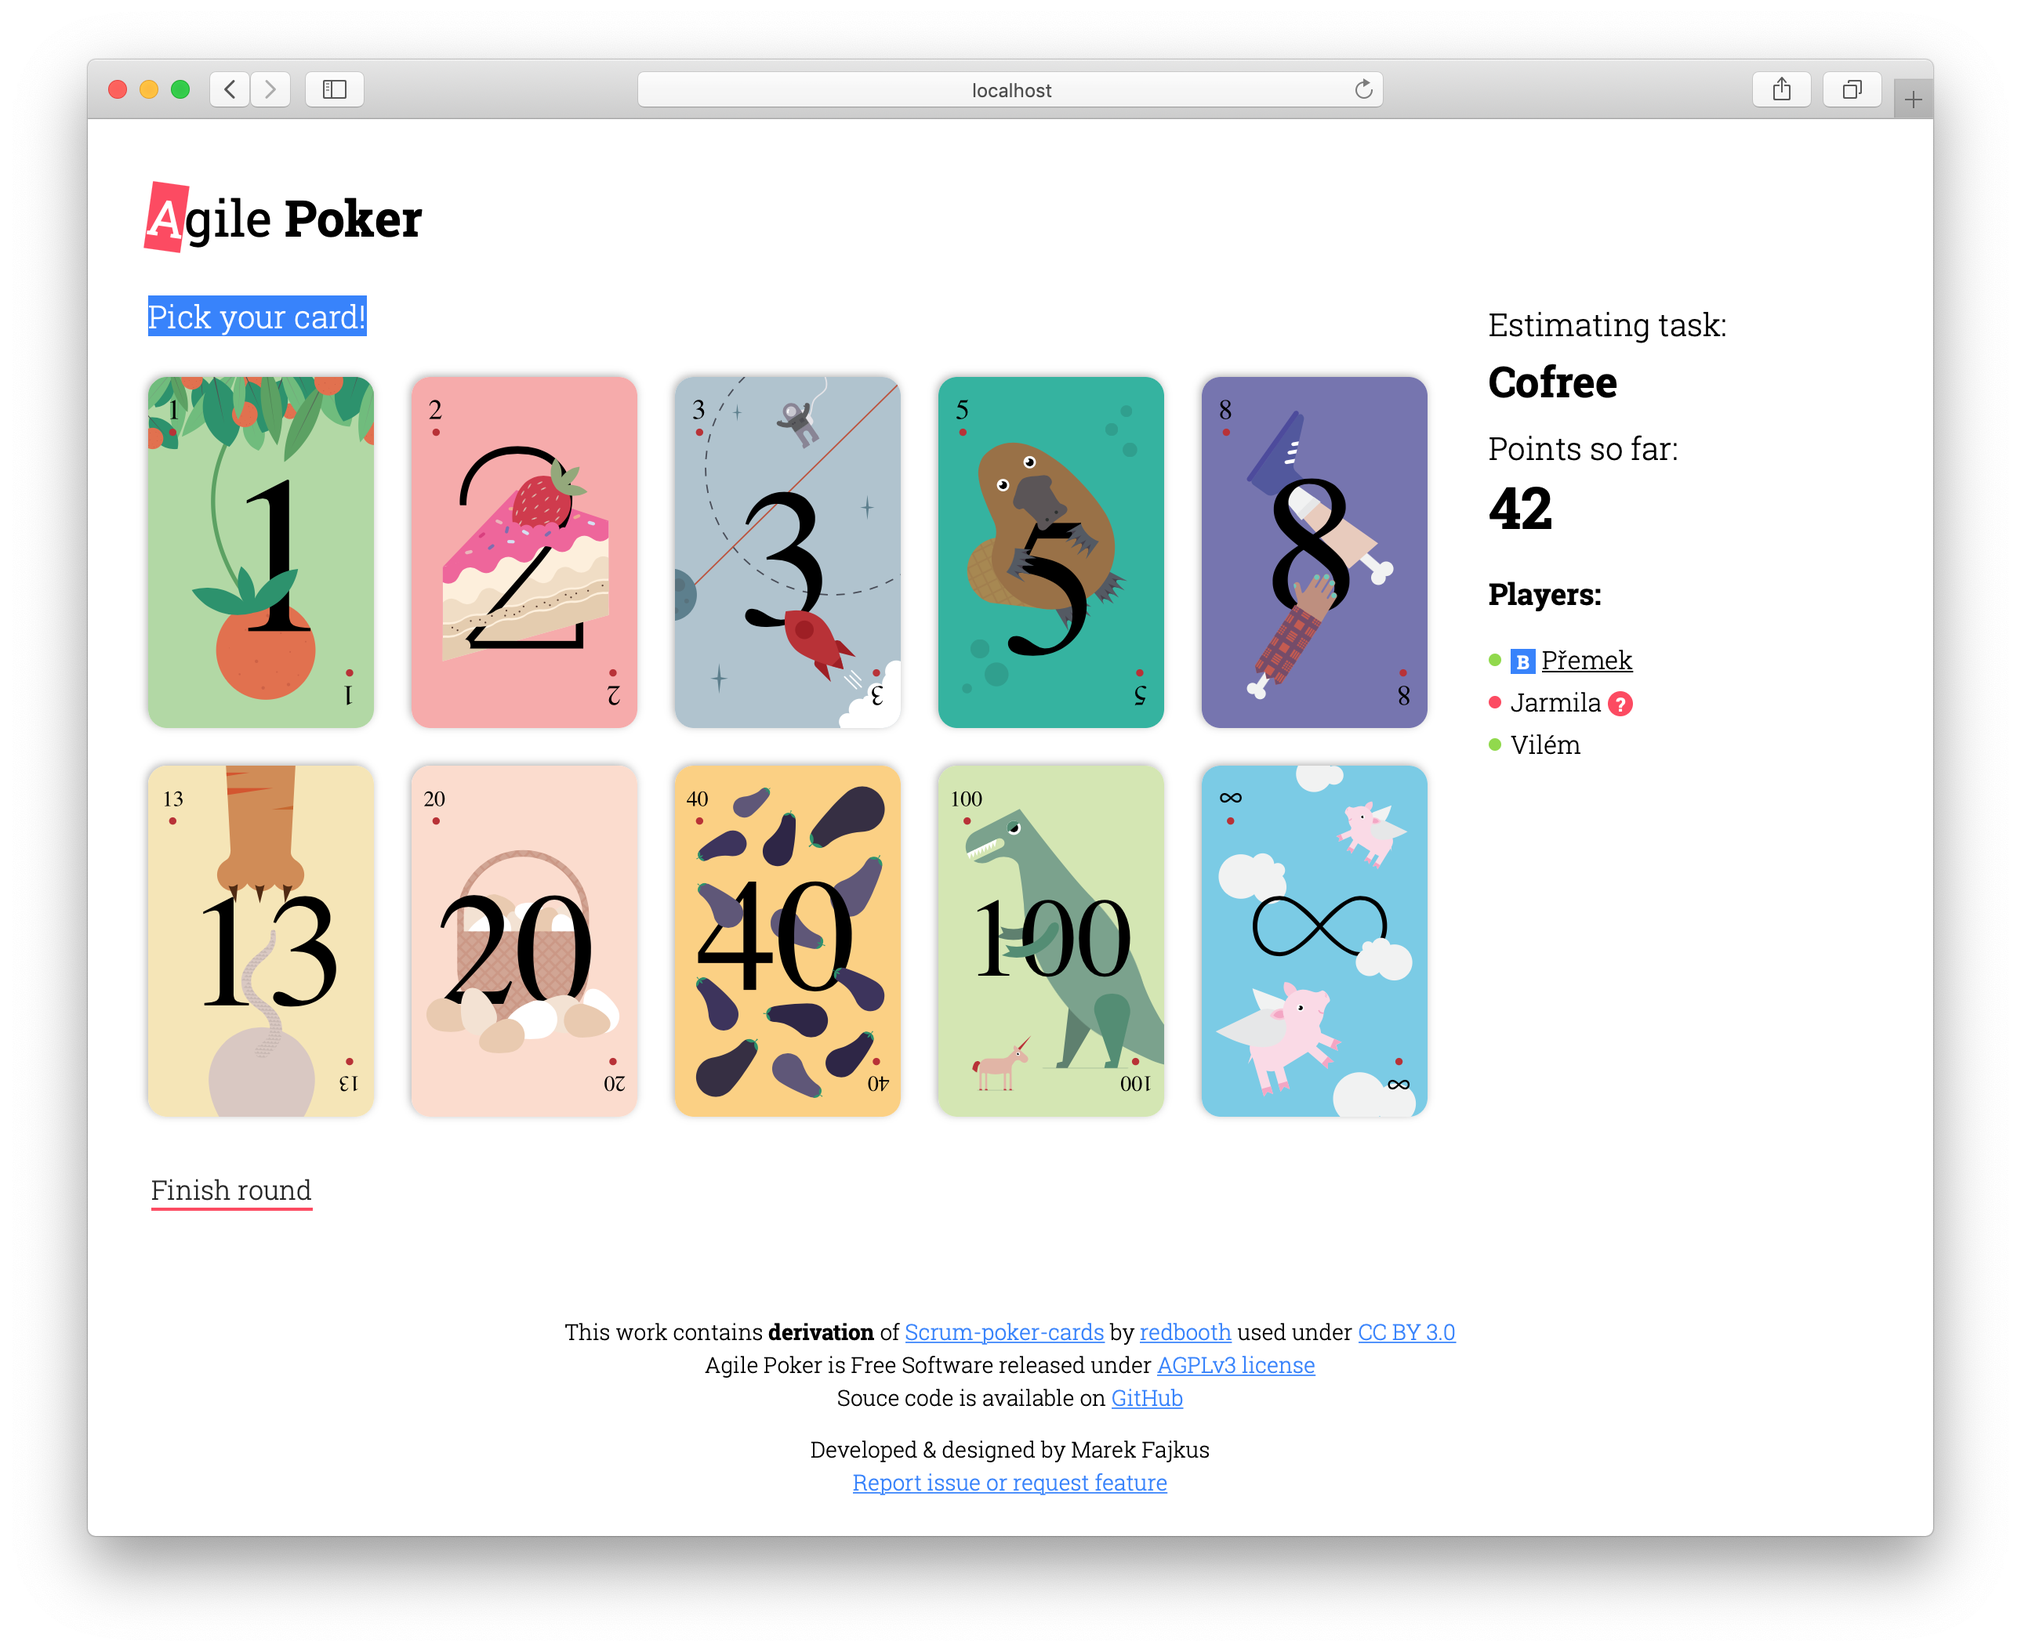
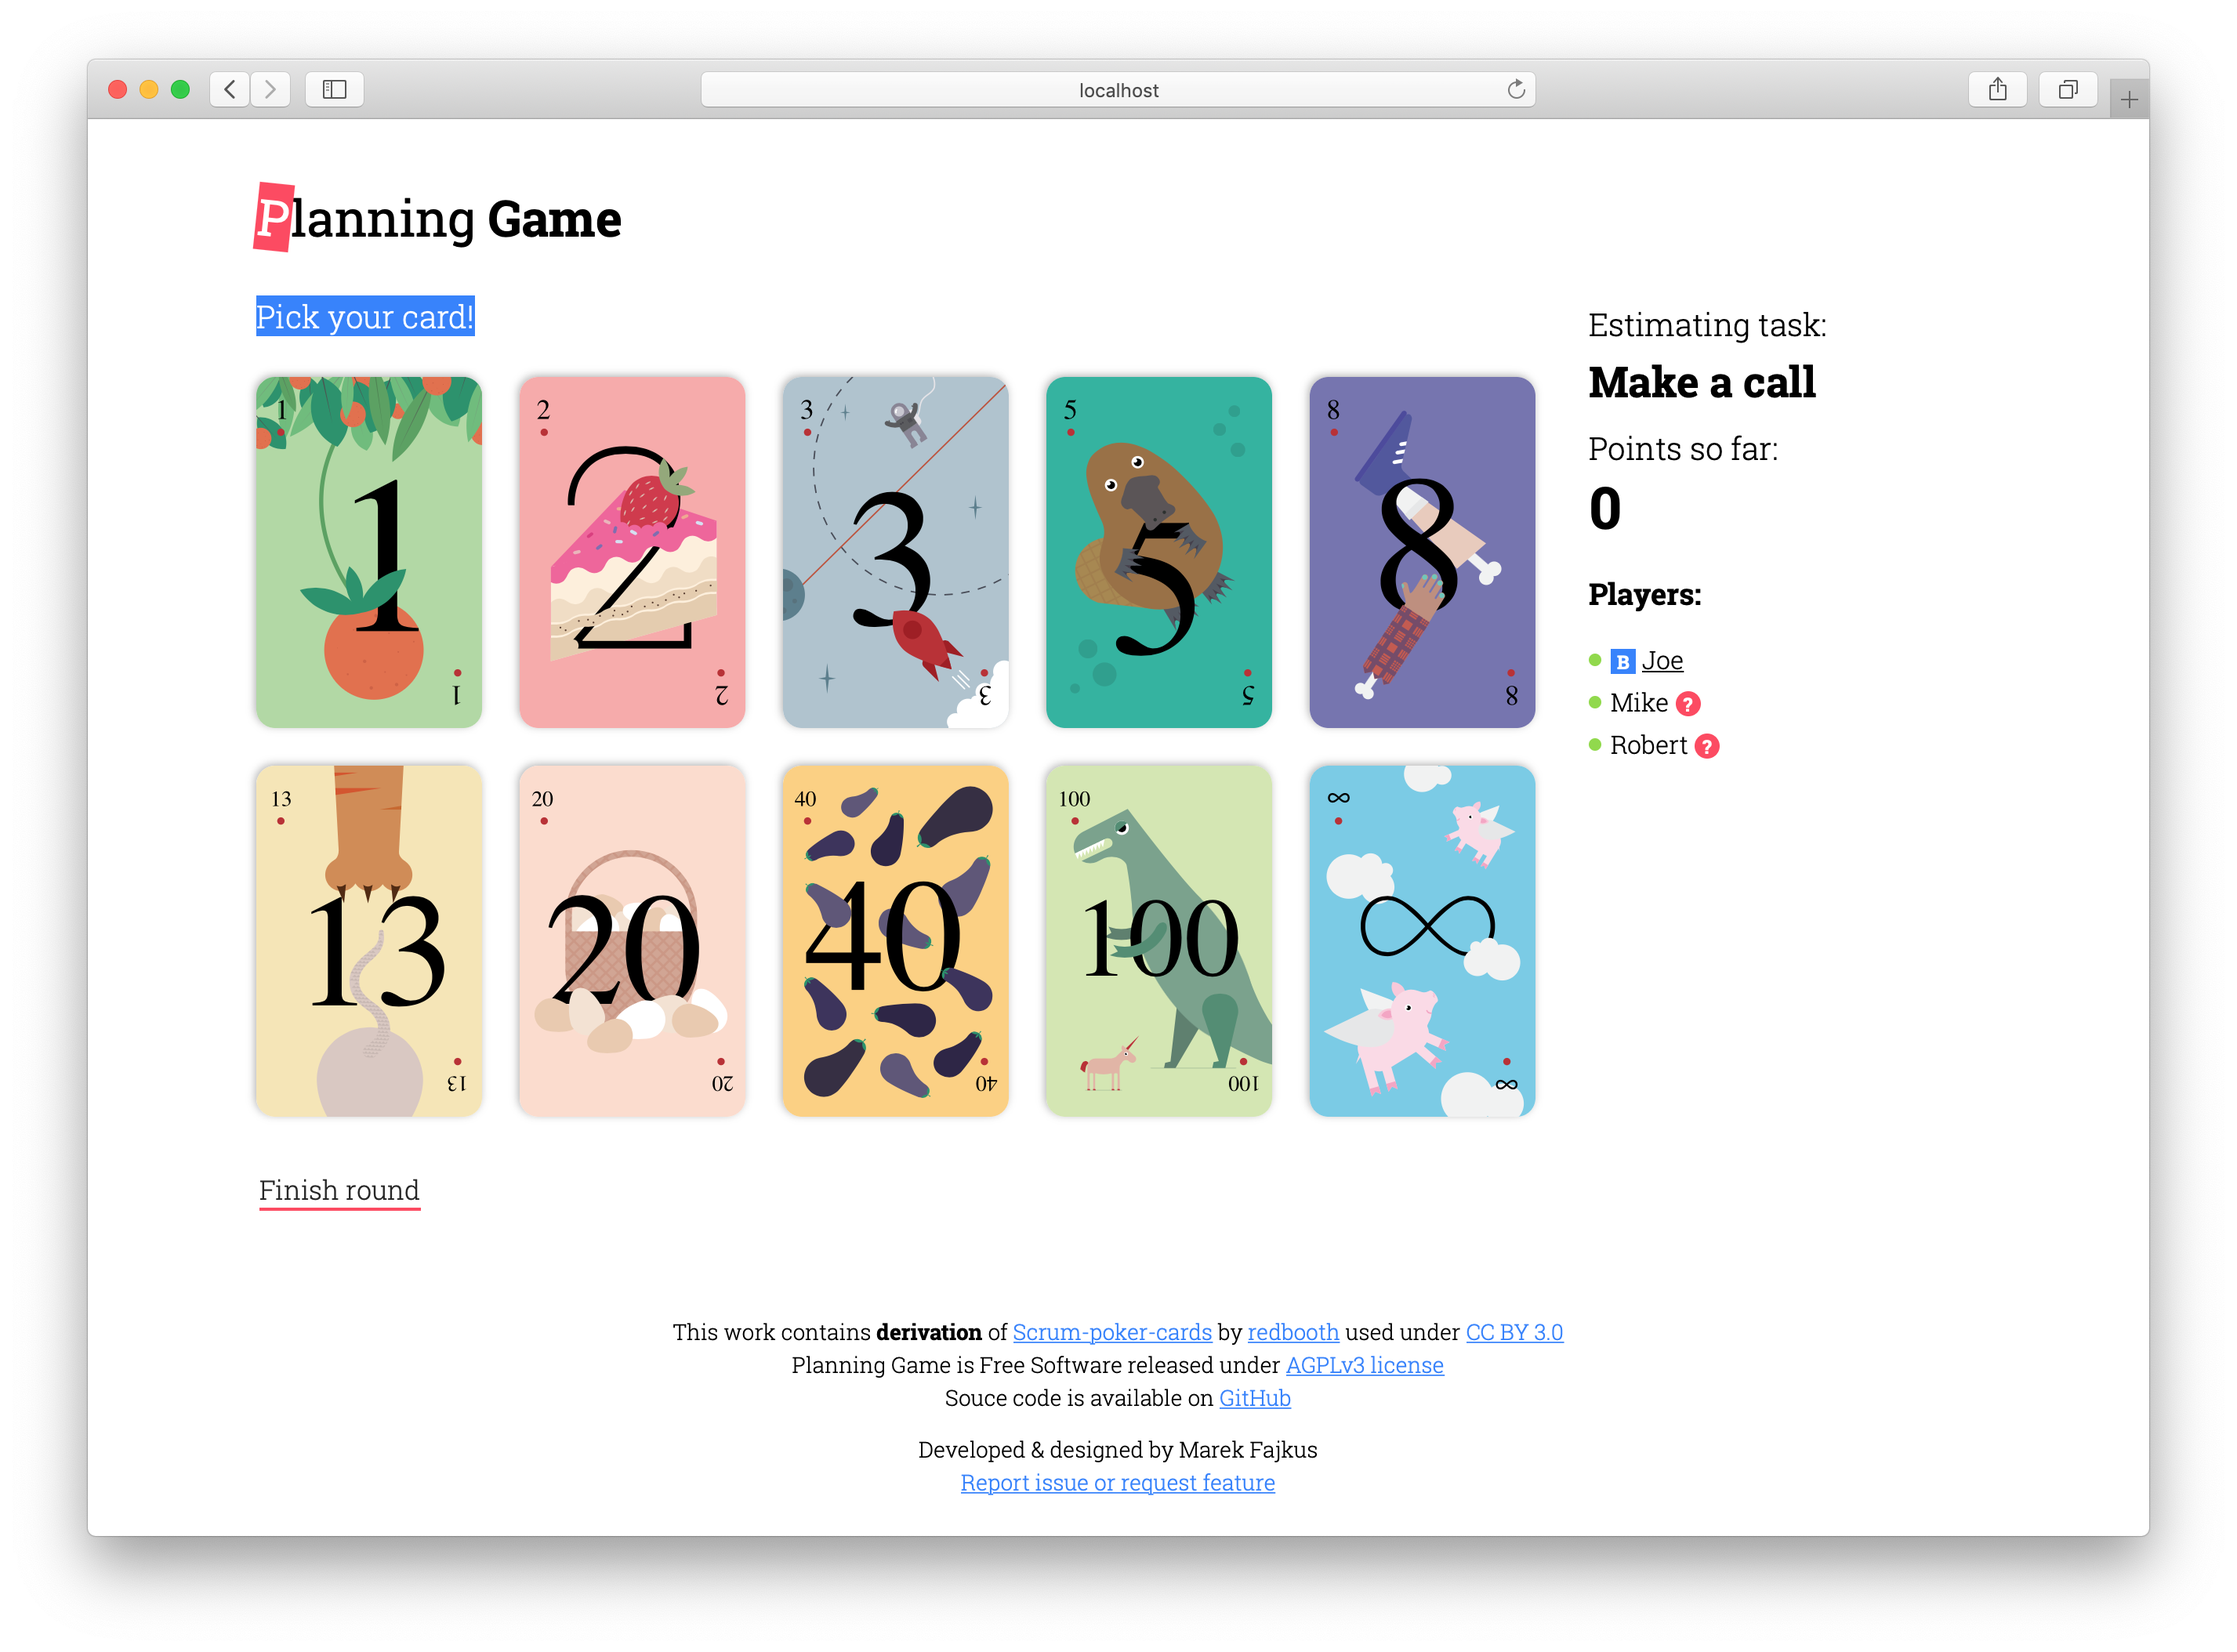
Chore/rename to planning game (#14)

diff --git a/README.md b/README.md
@@ -1,9 +1,9 @@
 <div align="center">
-    <h1>Agile Poker</h1>
+    <h1>Planning Game</h1>
     <p>Planning tool for remote teams.</p>
     <!-- Badges -->
-    <a href="https://travis-ci.org/turboMaCk/agile-poker">
-        <img src="https://travis-ci.org/turboMaCk/agile-poker.svg?branch=master" alt="build">
+    <a href="https://travis-ci.org/turboMaCk/planning-game">
+        <img src="https://travis-ci.org/turboMaCk/planning-game.svg?branch=master" alt="build">
     </a>
     <a href="https://www.gnu.org/licenses/agpl-3.0.en.html">
         <img src="https://img.shields.io/badge/license-AGPLv3-brightgreen.svg" alt="AGPLv3">
@@ -12,7 +12,7 @@
 
 ![screenshot](docs/screenshot.png)
 
-Simple voting poker implementation build with efficiency
+Simple voting poker implementation build with efficiency,
 flexibility and easy deployment in mind.
 Enabling remote teams to effectively identify complexities
 and specification weak points in collaborative way.
@@ -22,7 +22,7 @@ and specification weak points in collaborative way.
 ## Quick Start
 
 ```
-$ docker run -p 3000:3000 --rm -it turbomack/agile-poker
+$ docker run -p 3000:3000 --rm -it turbomack/planning-game
 ```
 
 ## Links
@@ -36,4 +36,4 @@ $ docker run -p 3000:3000 --rm -it turbomack/agile-poker
 This work contains **derivation** of [Scrum-poker-cards](https://github.com/redbooth/Scrum-poker-cards)
 by [redbooth](https://redbooth.com/) used under [CC BY 3.0](https://creativecommons.org/licenses/by/3.0/).
 
-Agile Poker is Free Software released under [AGPLv3](https://www.gnu.org/licenses/agpl-3.0.en.html).
+Planning Game is Free Software released under [AGPLv3](https://www.gnu.org/licenses/agpl-3.0.en.html).

diff --git a/docs/HOSTING.md b/docs/HOSTING.md
@@ -27,7 +27,7 @@ Here is a table of all variables with description.
 | `GC_EVERY_MIN`          | `30`          | Frequency of Garbage Collection for server state (in mins) |
 | `GC_TABLE_MIN_LIFE_MIN` | `120`         | Minimal life of table from creating (in mins)              |
 
-Implementation can be found in [AgilePoker.hs](https://github.com/turboMaCk/agile-poker/blob/master/server/AgilePoker.hs)
+Implementation can be found in [PlanningGame.hs](https://github.com/turboMaCk/planning-game/blob/master/server/PlanningGame.hs)
 
 ### Understanding Garbage Collection
 
@@ -46,11 +46,11 @@ which periodically cleans data in this shared data structure by following rules:
 
 ## Docker
 
-There is [official docker image](https://cloud.docker.com/u/turbomack/repository/docker/turbomack/agile-poker)
+There is [official docker image](https://cloud.docker.com/u/turbomack/repository/docker/turbomack/planning-game)
 publish on docker hub.
 
 ```
-$ docker pull turbomack/agile-poker
+$ docker pull turbomack/planning-game
 ```
 
 It should be very simple to plug this docker container
@@ -66,7 +66,7 @@ $ nix-build --attr client --out-link www
 $ nix-build --attr server
 $ export PATH=$(readlink -f result)/bin:$PATH
 $ cd www
-$ agile-poker
+$ planning-game
 ```
 
 Alternatively you can build docker image using nix dockerTools
@@ -96,7 +96,7 @@ $ cabal build # build server
 TL;DR One can try to pass those flags to squeeze some extra runtime performance.
 
 ```
-$ agile-poker +RTS -ki8K -qg
+$ planning-game +RTS -ki8K -qg
 ```
 
 *Changing default GHC memory might lead to improvement in space usage*.

diff --git a/CHANGELOG.md b/CHANGELOG.md
@@ -1,4 +1,4 @@
-# Revision history for agile-poker
+# Revision history for planning-game
 
 ## 0.1.0.0 -- YYYY-mm-dd
 
